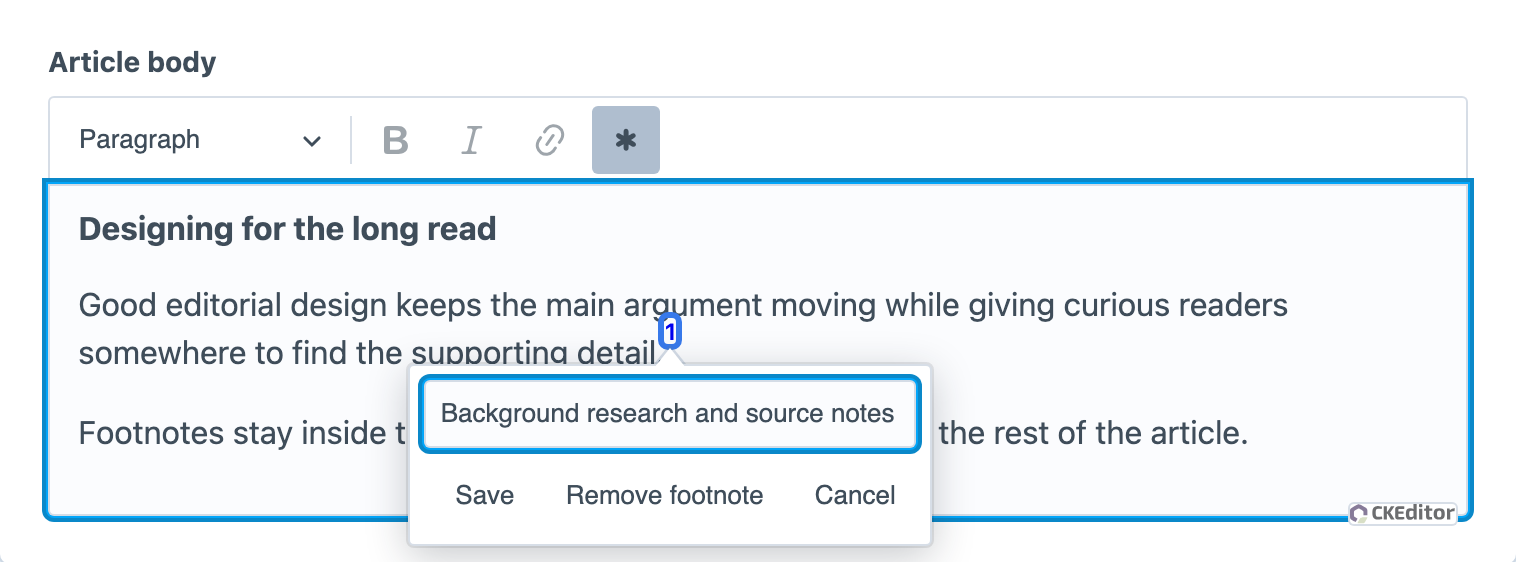
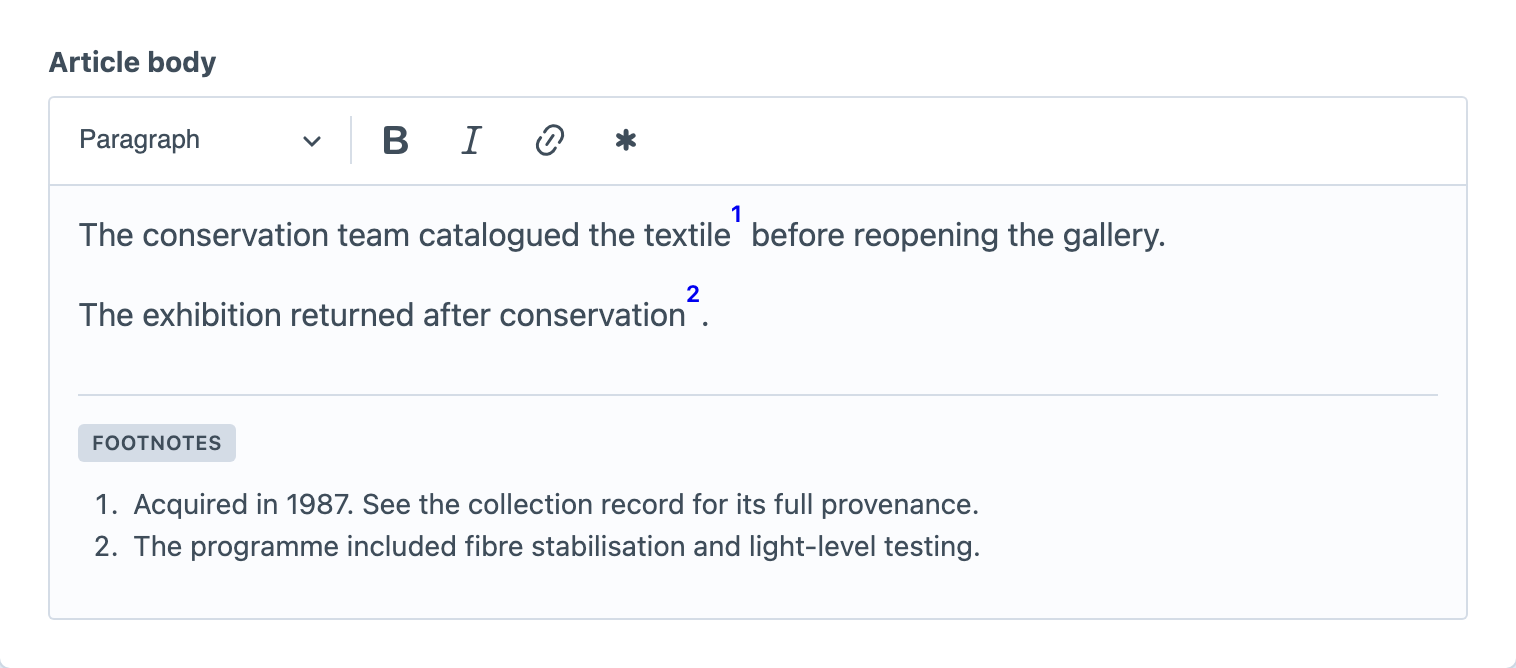
Refresh the 6.1 release materials

diff --git a/docs/get-started/upgrading-from-v6.md b/docs/get-started/upgrading-from-v6.md
@@ -1,10 +1,10 @@
 # Upgrading from Footnotes 6
 
-Footnotes keeps existing content and Twig templates working while adding document-native editing and a local collection API. The release is non-breaking, so you can update the plugin before changing templates. The changes below explain what to review and which optional improvements are available.
+Footnotes keeps existing content and Twig templates working while adding rich editing and a local collection API. The release is non-breaking, so you can update the plugin before changing templates. The changes below explain what to review and which optional improvements are available.
 
 ## Breaking Changes
 
-There are no intended breaking changes. Existing CKEditor and Redactor footnote markup remains readable, and the `footnotes` filter plus the `footnotes()`, `footnotes_items()`, `footnotes_exist()`, and `footnotes_set()` functions remain available through the compatibility layer.
+There are no intended breaking changes. Existing CKEditor and Redactor footnote markup remains readable, and the `footnotes` filter plus the `footnotes()`, `footnotes_items()`, `footnotes_exist()`, and `footnotes_set()` functions remain available. These helpers now record Craft deprecation warnings when used.
 
 ## Editor Behaviour
 
@@ -12,11 +12,11 @@ Opening a field with inline Footnotes content presents each marker as a numbered
 
 Review an existing entry by opening its CKEditor field, selecting a reference, and confirming that the caret moves to the expected definition. Save and reload the entry, then check that the ordinary field output still contains the reference, definition, and return link.
 
-Canonical notes keep their full UUIDs in `data-footnote-id` and `data-footnote-reference-id`, but generated public fragment IDs use a compact stable token such as `#fn-0000000001`. Existing Footnotes 6 content and non-UUID fragment identities remain readable. If pre-release 6.1 templates or scripts were written against full UUID-shaped fragments, target the semantic classes or data attributes instead of the fragment format.
+Generated fragment IDs use compact targets such as `#fn-0000000001`. Existing Footnotes 6 content and fragment links remain readable. Custom scripts and styles should target Footnotes classes or data attributes rather than relying on the exact fragment format.
 
 ## Deprecated Twig Helpers
 
-The request-global Twig API still works but records Craft deprecation warnings when called. There is no scheduled removal date. New and revised templates should either render the complete field value directly or use `craft.footnotes.collection()` for relocated or combined output.
+The older Twig API shares one footnote list across the request. It still works but records Craft deprecation warnings when called, and there is no scheduled removal date. New and revised templates should either render the complete field value directly or use `craft.footnotes.collection()` for relocated or combined output.
 
 For a normal article, the template can render the field without Footnotes-specific processing:
 
@@ -81,6 +81,6 @@ The collection is deliberately local to the Twig variable. Several `add()` calls
 
 ## Settings Behaviour
 
-`enableAnchorLinks` and `enableDuplicateFootnotes` continue to control the classic Twig and GraphQL compatibility processing. The new `referenceStyle` setting defaults to `'plain'`, preserving the existing `1` marker, while `'brackets'` displays `[1]` in CKEditor and frontend output without rewriting stored field values. Collections can override that default locally. Document-native notes and collection output always use linked references, stable note identities, and a backlink for every occurrence. Identical text does not merge separately created canonical notes.
+`enableAnchorLinks` and `enableDuplicateFootnotes` continue to control the classic Twig and GraphQL compatibility processing. The new `referenceStyle` setting defaults to `'plain'`, preserving the existing `1` marker, while `'brackets'` displays `[1]` in CKEditor and frontend output without rewriting stored field values. Collections can override that default locally. Current CKEditor notes and collection output always use linked references, stable note identities, and a backlink for every occurrence. Identical text does not merge separately created notes.
 
 After adopting the collection API, check **Utilities → Deprecation Warnings** for remaining `verbb.footnotes.*` entries. Each warning identifies a compatibility helper that can be updated independently.

diff --git a/docs/feature-tour/usage.md b/docs/feature-tour/usage.md
@@ -1,6 +1,8 @@
-# Usage
+# Footnotes in CKEditor
 
 Footnotes keeps each reference and its definition in the same CKEditor document. Authors write the main passage in the usual editing area, while definitions appear in a dedicated footnotes region at the end of that field. The saved field value contains both parts, so ordinary field output is a complete, linked document.
+
+![A CKEditor field with numbered references and rich definitions in its Footnotes region.](../../screenshots/footnotes-editor.png)
 
 ## Add the Footnote Button
 
@@ -12,7 +14,7 @@ The button belongs to the chosen CKEditor configuration rather than every rich-t
 
 Place the caret where the reference should appear, then select **Footnote**. CKEditor inserts a numbered reference, creates its definition in the footnotes region, and moves the caret there so you can start writing. If you select text before using the button, that text becomes the initial definition.
 
-Definitions support paragraphs, links, bold and italic text, subscript and superscript, soft breaks, and simple bulleted or numbered lists. Footnotes cannot contain another footnote, images, tables, embedded entries, media, or other structural widgets. This boundary keeps definitions useful for legal, academic, museum, and editorial notes without turning the footnotes region into a nested page builder.
+Definitions support paragraphs, links, bold and italic text, subscript and superscript, soft breaks, and simple bulleted or numbered lists. A definition cannot contain another footnote, an image, a table, an embedded entry, or media. This keeps the region focused on supporting notes rather than complete page layouts.
 
 Select a numbered reference to return to its definition. From inside a definition, press **Ctrl+Enter** (or **Command+Enter** on macOS) to return to that note's first reference.
 
@@ -20,9 +22,9 @@ Select a numbered reference to return to its definition. From inside a definitio
 
 Copying and pasting a reference inside the same field creates another reference to the same definition. Both markers display the same number, and the definition receives a return link for each occurrence.
 
-Pasting a reference into another CKEditor field carries its rich definition but gives the pasted note a new identity. This keeps changes in one field from unexpectedly changing another. Two notes created separately remain separate even when their wording is identical.
+Pasting a reference into another CKEditor field carries its rich definition but creates a separate note. Changes in one field therefore do not unexpectedly change another. Two notes created separately remain separate even when their wording is identical.
 
-Removing one of several shared references keeps the definition. Removing the last reference removes the definition in the same undoable edit. An empty definition remains valid until its last reference is removed.
+Removing one of several shared references keeps the definition. Removing the last reference removes the definition too, and the editor's normal undo command restores both. An empty definition remains valid until its last reference is removed.
 
 ## Render the Saved Field
 

diff --git a/marketing/features.md b/marketing/features.md
@@ -2,26 +2,26 @@
 Footnotes lets CKEditor authors write rich supporting notes without leaving the document, while keeping the published result accessible and ready to render.
 <!-- feature-intro-end -->
 
-<!-- feature-section -->
+<!-- feature-media -->
 ## Give every note room to breathe
 
 A citation rarely fits comfortably inside a small popover. Footnotes puts definitions in an editable region at the end of the same CKEditor document, where authors can use paragraphs, links, inline formatting and simple lists with the editor controls they already know.
 
 References and definitions stay connected as content moves. Reuse one definition from several places, paste a rich note into another field as an independent copy, or remove the last reference and its definition together through the normal undo history.
-<!-- feature-section-end -->
+
+![A CKEditor field with numbered references and rich definitions in its Footnotes region.](../screenshots/footnotes-editor.png)
+<!-- feature-media-end -->
 
 <!-- feature-grid -->
 - :icon[file-description] **Complete field output** Saved CKEditor HTML includes references, definitions and return links, ready for ordinary field rendering.
-- :icon[repeat] **Repeated references** One definition can serve several markers and return readers to every occurrence.
 - :icon[brackets-contain] **Reference styles** Present in-text markers as compact numbers or familiar Wikipedia-style square-bracketed numbers.
-- :icon[accessible] **Accessible navigation** Semantic roles, labels, stable targets and backlinks give each reference a clear destination.
-- :icon[braces] **Local Twig collections** Move or combine notes without request-global state, then use the default renderer or your own markup.
-- :icon[adjustments] **Attribute control** Add project classes and data attributes while retaining Footnotes' semantic structure.
-- :icon[api] **Rich GraphQL data** Headless clients can request plain text, rich HTML, stable identities and every reference target.
+- :icon[accessible] **Accessible navigation** Labels, linked targets and backlinks give each reference a clear destination.
+- :icon[braces] **Twig flexibility** Move or combine notes from one or several fields, then use the default list or your own markup.
+- :icon[api] **GraphQL data** Headless clients can request plain text, rich HTML and every repeated reference target.
 <!-- feature-grid-end -->
 
 <!-- feature-section -->
 ## Fit footnotes around the page
 
-Render a field directly when the note list belongs with its article. When a layout needs the definitions elsewhere, one local collection handles a single body or several fields with the same API, predictable numbering and deterministic anchor scopes. Structured iteration remains available for projects that need complete control over the final list.
+Render a field directly when the note list belongs with its article. When a layout needs the definitions elsewhere, Twig can move or combine notes from one or several fields while keeping predictable numbering. Use the standard list or take complete control over its markup.
 <!-- feature-section-end -->

diff --git a/CHANGELOG.md b/CHANGELOG.md
@@ -3,24 +3,21 @@
 ## Unreleased
 
 ### Added
-- Added document-native rich footnote editing and a local `craft.footnotes.collection()` Twig API for single-body, multi-body, and custom rendering workflows.
+- Added rich footnote editing directly in CKEditor, including formatted definitions, repeated references, and accessible backlinks.
+- Added a local `craft.footnotes.collection()` Twig API for moving, combining, and customising footnote output.
 - Added configurable plain (`1`) or square-bracketed (`[1]`) in-text reference styles, with a plugin-wide default and per-collection overrides.
 
 ### Changed
-- Require Verbb Base 3.0.20 or later so shared control-panel layouts use the current asset bundle namespace. ([verbb-base#3](https://github.com/verbb/verbb-base/issues/3))
-- Changed canonical CKEditor content to include accessible references and definitions so fields render complete footnotes without a Twig filter.
-- Changed UUID-backed public fragment IDs to use compact stable tokens while retaining full UUIDs as internal note and reference identities.
-- Changed footnote backlinks to flow-safe, compact Wikipedia-style indicators before each rich definition, including a single shared arrow and distinct lettered targets for repeated references.
-- Updated the control-panel definitions region with a compact Footnotes badge, smaller definition text, an aligned ordered-list gutter, and clean editable definitions without rendered backlinks.
+- Updated the required version of `verbb/base` to 3.0.20. ([verbb-base#3](https://github.com/verbb/verbb-base/issues/3))
+- Changed CKEditor content to include accessible references and definitions so fields render complete footnotes without a Twig filter.
+
+### Fixed
+- Fixed CKEditor and Redactor integration when Footnotes initialises first.
+- Fixed a moderate-severity denial-of-service vulnerability.
+- Fixed a low-severity denial-of-service vulnerability.
 
 ### Deprecated
 - Deprecated the request-global `footnotes` filter and `footnotes()`, `footnotes_items()`, `footnotes_exist()`, and `footnotes_set()` functions in favour of local collections. Existing templates remain supported.
-
-### Fixed
-- Fixed collection rendering when Craft HTML Purifier retains full footnote identities on reference anchors but removes them from the surrounding superscript.
-- Fixed Redactor button registration when Footnotes initialises before Redactor.
-- Fixed a moderate-severity denial-of-service vulnerability.
-- Fixed a low-severity denial-of-service vulnerability.
 
 ## 6.0.6 - 2026-10-02
 

diff --git a/docs/developers/graphql.md b/docs/developers/graphql.md
@@ -1,6 +1,6 @@
 # GraphQL
 
-Footnotes stores document-native references and definitions inside the CKEditor field's HTML. A client can request that complete HTML directly, or use Footnotes' processed fields when it needs the body and structured definitions separately.
+Footnotes stores references and definitions inside the CKEditor field's HTML. A client can request that complete HTML directly, or use Footnotes' processed fields when it needs the body and structured definitions separately.
 
 ## Requirements
 
@@ -63,10 +63,10 @@ Each item exposes the following fields:
 
 | Field | Result |
 | --- | --- |
-| `id` | Stable definition identity for document-native notes, or `null` for classic inline content. |
+| `id` | Stored definition ID for current notes, or `null` for classic inline content. |
 | `number` | One-based display number derived from reference order. |
-| `text` | Plain definition text for document-native notes. Classic inline content retains its historical HTML string for compatibility. |
-| `html` | Rich definition HTML for document-native notes, or `null` for classic inline content. |
+| `text` | Plain definition text for current notes. Classic inline content retains its historical HTML string for compatibility. |
+| `html` | Rich definition HTML for current notes, or `null` for classic inline content. |
 | `listAnchorId` | Fragment target for the rendered definition. |
 | `referenceAnchorId` | First in-text reference ID. |
 | `referenceAnchorIds` | Every in-text reference ID in occurrence order, or `null` for classic inline content. |
@@ -74,7 +74,7 @@ Each item exposes the following fields:
 
 Numbering starts at 1 for each `footnotesProcessed` resolve. If several fields should share one numbered list, collect their results on the client in query order and assign the combined presentation numbers there.
 
-Processed `html` uses the plugin-wide `referenceStyle`. Raw CKEditor `html` keeps the semantic number in each reference anchor; headless clients that request only the stored HTML can apply their preferred punctuation from the numeric `number` value or their own presentation rules.
+Processed `html` uses the plugin-wide `referenceStyle`. Raw CKEditor `html` keeps the number in each reference anchor; headless clients that request only the stored HTML can apply their preferred punctuation from the numeric `number` value or their own presentation rules.
 
 ## Process an HTML String
 

diff --git a/docs/template-guides/rendering-footnotes.md b/docs/template-guides/rendering-footnotes.md
@@ -2,7 +2,7 @@
 
 Ordinary CKEditor field output contains its references and definitions, so `{{ entry.body }}` is the right starting point for most templates. Use a footnote collection when the page design needs to separate those parts, combine several content bodies into one numbered list, or render custom markup.
 
-A collection belongs to the local Twig variable that receives it. It has no request-global state, so separate collections form separate numbered groups and several `add()` calls on one collection deliberately share a sequence.
+A collection exists only in the Twig variable that receives it. Separate collections form separate numbered groups, while several `add()` calls on one collection share one sequence.
 
 ## Move Definitions below an Article
 
@@ -114,7 +114,7 @@ Pass `referenceAttributes` when creating the collection to add encoded attribute
 }) }}
 ```
 
-Custom classes are added to Footnotes' semantic classes rather than replacing them. Attribute values are HTML-encoded. Stable Footnotes classes, data markers, roles, accessible labels, IDs, and link targets remain present so the result keeps its document structure.
+Custom classes are added to Footnotes' own classes rather than replacing them. Attribute values are HTML-encoded. Footnotes keeps the classes, data markers, roles, labels, IDs, and link targets needed for the references and definitions to work.
 
 ## Render a Custom List
 
@@ -202,7 +202,7 @@ Apart from the two bracket characters needed when the global `referenceStyle` is
 
 **Returns:** `FootnoteCollection`
 
-Creates an empty local collection. `options.scope` sets a deterministic anchor prefix, `options.referenceStyle` selects `'plain'` or `'brackets'` for this collection, and `options.referenceAttributes` adds encoded attributes to generated reference links. When `referenceStyle` is omitted, the collection uses the plugin setting. The collection has no seed argument; call `add()` for every value you want it to process.
+Creates an empty collection. `options.scope` sets a predictable prefix for generated links, `options.referenceStyle` selects `'plain'` or `'brackets'` for this collection, and `options.referenceAttributes` adds encoded attributes to generated reference links. When `referenceStyle` is omitted, the collection uses the plugin setting. The collection has no seed argument; call `add()` for every value you want it to process.
 :::
 
 ::: reference

diff --git a/README.md b/README.md
@@ -3,19 +3,16 @@
 
 Footnotes is a Craft CMS plugin that lets CKEditor authors write rich supporting notes without leaving the document. References stay in the main text while definitions live in an editable footnotes region at the end of the same field.
 
-The saved field value contains accessible references, definitions and return links, so ordinary field output is complete. Developers can also move or combine definitions through a local Twig collection, customise the markup, or consume structured rich notes through GraphQL.
+The saved field value contains references, definitions and return links, so ordinary field output is complete. Developers can also use Twig to move or combine definitions, customise the markup, or request structured rich notes through GraphQL.
 
 ## Features
 
-- Edit footnote definitions in the same CKEditor document as their references.
-- Use paragraphs, links, inline formatting, soft breaks and simple lists inside definitions.
-- Reuse one definition from several references, with a return link for every occurrence.
+- Edit rich footnote definitions in the same CKEditor document as their references, and reuse one definition from several places.
 - Display in-text references as plain numbers or Wikipedia-style square-bracketed numbers.
 - Render complete footnotes through ordinary field output without frontend JavaScript.
-- Move or combine definitions from one or several content bodies through a local Twig collection.
-- Customise reference, list, item and backlink attributes without replacing semantic markup.
-- Read rich definition HTML, stable identities and repeated-reference data through GraphQL.
-- Keep existing CKEditor, Redactor and Twig integrations operational through a compatibility layer.
+- Move or combine definitions from one or several fields in Twig.
+- Customise the generated reference, list, item and backlink markup in Twig.
+- Request plain text, rich HTML and repeated-reference data through GraphQL.
 
 ## Documentation
 Visit the [Footnotes Plugin page](https://verbb.io/craft-plugins/footnotes) for all documentation, guides, pricing and developer resources.

diff --git a/docs/get-started/configuration.md b/docs/get-started/configuration.md
@@ -24,7 +24,7 @@ All other settings keep their defaults. Add any further settings you want to cha
 
 Controls how in-text reference numbers appear in the control panel and frontend output. Use `'plain'` for `1` or `'brackets'` for `[1]`.
 
-Footnotes keeps the stored CKEditor anchor text as the semantic number. When `'brackets'` is selected, it adds only the bracket punctuation at display time, so changing the setting updates existing entries without resaving them. A collection can override the plugin default with its own `referenceStyle` option.
+Footnotes stores the number itself and adds brackets when the field is displayed. Changing the setting therefore updates existing entries without resaving them. A collection can override the plugin default with its own `referenceStyle` option.
 :::
 
 ::: reference
@@ -34,7 +34,7 @@ Footnotes keeps the stored CKEditor anchor text as the semantic number. When `'b
 
 Whether to enable `<a>` tags for footnotes.
 
-This setting applies to the classic `footnotes` Twig filter and GraphQL's `numberMarkup` value. Document-native content and the collection API always produce linked, accessible references and backlinks.
+This setting applies to the classic `footnotes` Twig filter and GraphQL's `numberMarkup` value. Current CKEditor content and the collection API always produce linked, accessible references and backlinks.
 :::
 
 ::: reference
@@ -42,7 +42,7 @@ This setting applies to the classic `footnotes` Twig filter and GraphQL's `numbe
 
 **Type:** `bool` · **Default:** `false`
 
-Whether classic Twig processing combines footnotes with identical content. Document-native footnotes use identity instead: two separately created notes remain separate even when their content matches, while copied references can point to the same definition.
+Whether classic Twig processing combines footnotes with identical content. Current CKEditor footnotes use identity instead: two separately created notes remain separate even when their content matches, while copied references can point to the same definition.
 :::
 
 ## Control Panel

diff --git a/marketing/plugin-store.md b/marketing/plugin-store.md
@@ -1,15 +1,12 @@
 Footnotes lets CKEditor authors write rich supporting notes without leaving the document. References stay in the main text while definitions live in an editable footnotes region at the end of the same field.
 
-The saved field value contains accessible references, definitions and return links, so ordinary field output is complete. Developers can also move or combine definitions through a local Twig collection, customise the markup, or consume structured rich notes through GraphQL.
+The saved field value contains references, definitions and return links, so ordinary field output is complete. Developers can also use Twig to move or combine definitions, customise the markup, or request structured rich notes through GraphQL.
 
 ## Features
 
-- Edit footnote definitions in the same CKEditor document as their references.
-- Use paragraphs, links, inline formatting, soft breaks and simple lists inside definitions.
-- Reuse one definition from several references, with a return link for every occurrence.
+- Edit rich footnote definitions in the same CKEditor document as their references, and reuse one definition from several places.
 - Display in-text references as plain numbers or Wikipedia-style square-bracketed numbers.
 - Render complete footnotes through ordinary field output without frontend JavaScript.
-- Move or combine definitions from one or several content bodies through a local Twig collection.
-- Customise reference, list, item and backlink attributes without replacing semantic markup.
-- Read rich definition HTML, stable identities and repeated-reference data through GraphQL.
-- Keep existing CKEditor, Redactor and Twig integrations operational through a compatibility layer.
+- Move or combine definitions from one or several fields in Twig.
+- Customise the generated reference, list, item and backlink markup in Twig.
+- Request plain text, rich HTML and repeated-reference data through GraphQL.
